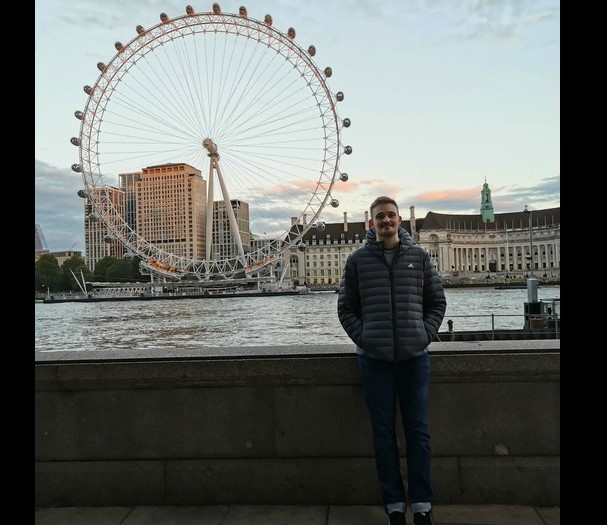
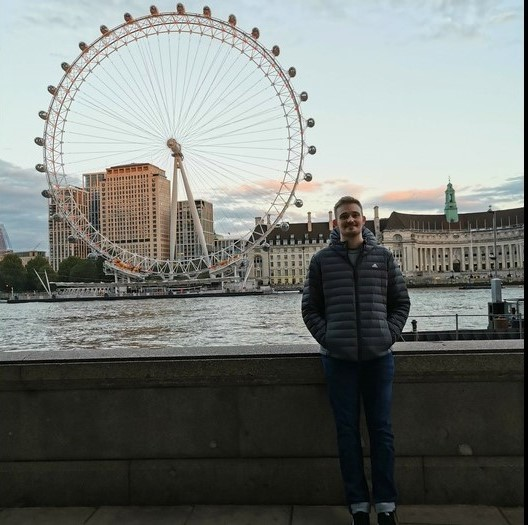
adding hover effect and croping image

diff --git a/src/components/NavBarComponet.vue b/src/components/NavBarComponet.vue
@@ -40,7 +40,7 @@
           <li class="nav-item">
             <router-link
               to="/"
-              class="px-3 py-2 flex items-center text-xs uppercase font-bold leading-snug text-black hover:opacity-75"
+              class="px-3 py-2 flex items-center text-xs uppercase font-bold leading-snug text-black hover:opacity-75 hover:underline"
               href=""
             >
               <i class="text-lg leading-lg text-white opacity-75" /><span class="ml-2">Home</span>
@@ -49,7 +49,7 @@
           <li class="nav-item">
             <router-link
               to="/about"
-              class="px-3 py-2 flex items-center text-xs uppercase font-bold leading-snug text-black hover:opacity-75"
+              class="px-3 py-2 flex items-center text-xs uppercase font-bold leading-snug text-black hover:opacity-75 hover:underline"
               href=""
             >
               <i class="text-lg leading-lg text-white opacity-75" /><span class="ml-2"
@@ -60,7 +60,7 @@
           <li class="nav-item">
             <router-link
               to="/work"
-              class="px-3 py-2 flex items-center text-xs uppercase font-bold leading-snug text-black hover:opacity-75"
+              class="px-3 py-2 flex items-center text-xs uppercase font-bold leading-snug text-black hover:opacity-75 hover:underline"
               href=""
             >
               <i class="text-lg leading-lg text-white opacity-75" /><span class="ml-2"

diff --git a/index.html b/index.html
@@ -2,9 +2,9 @@
 <html lang="en">
   <head>
     <meta charset="UTF-8">
-    <link rel="icon" href="/favicon.ico">
+    
     <meta name="viewport" content="width=device-width, initial-scale=1.0">
-    <title>Vite App</title>
+    <title>Daniel Jackson </title>
   </head>
   <body>
     <div id="app"></div>
